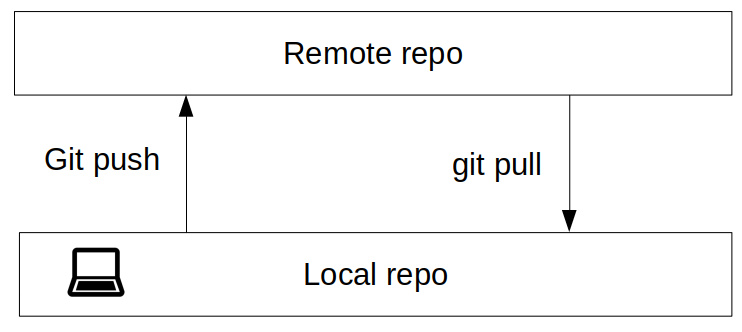
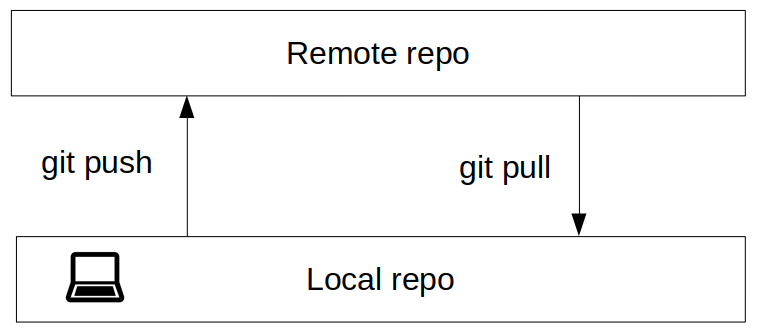
changes on images

Changed region(s): [[0.0, 0.0301, 0.9919, 0.9639], [0.372, 0.1205, 0.6509, 0.2108], [0.403, 0.7831, 0.6199, 0.8735]]

diff --git a/my_cheat_sheets/git/README.md b/my_cheat_sheets/git/README.md
@@ -23,3 +23,5 @@ Git: [https://git-scm.com/](https://git-scm.com/)
 
 * Updating the repo: `git push`
 * Getting the updates (other contributors did some changes and you need the last update): `git pull`
+
+<img align="center" src="images/pushpull.png">
